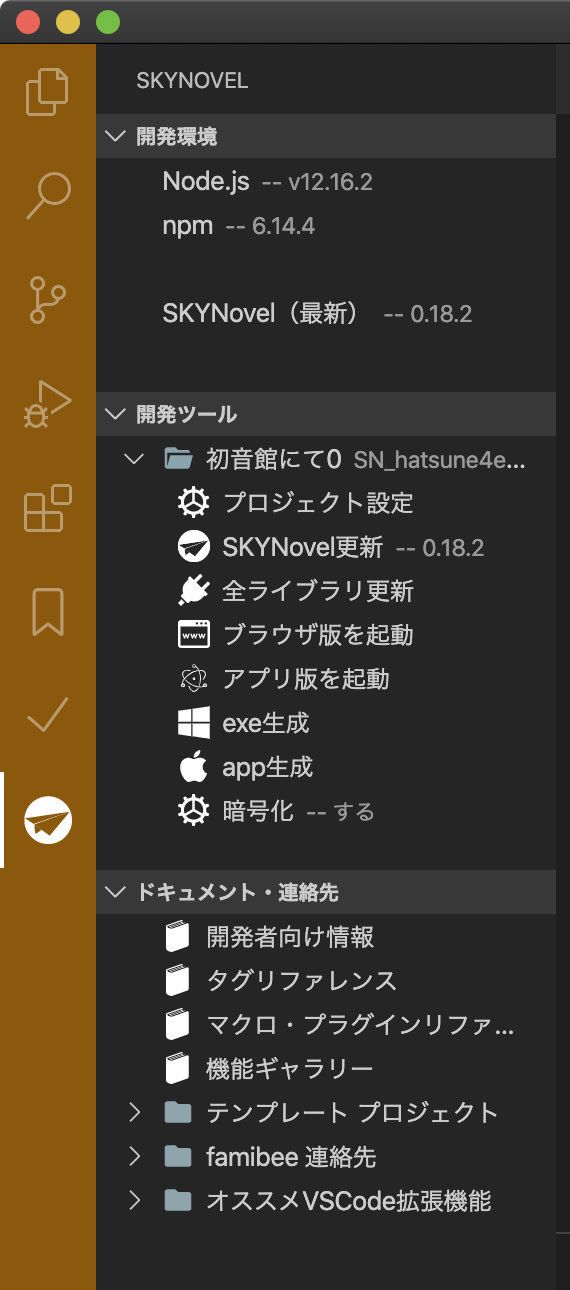
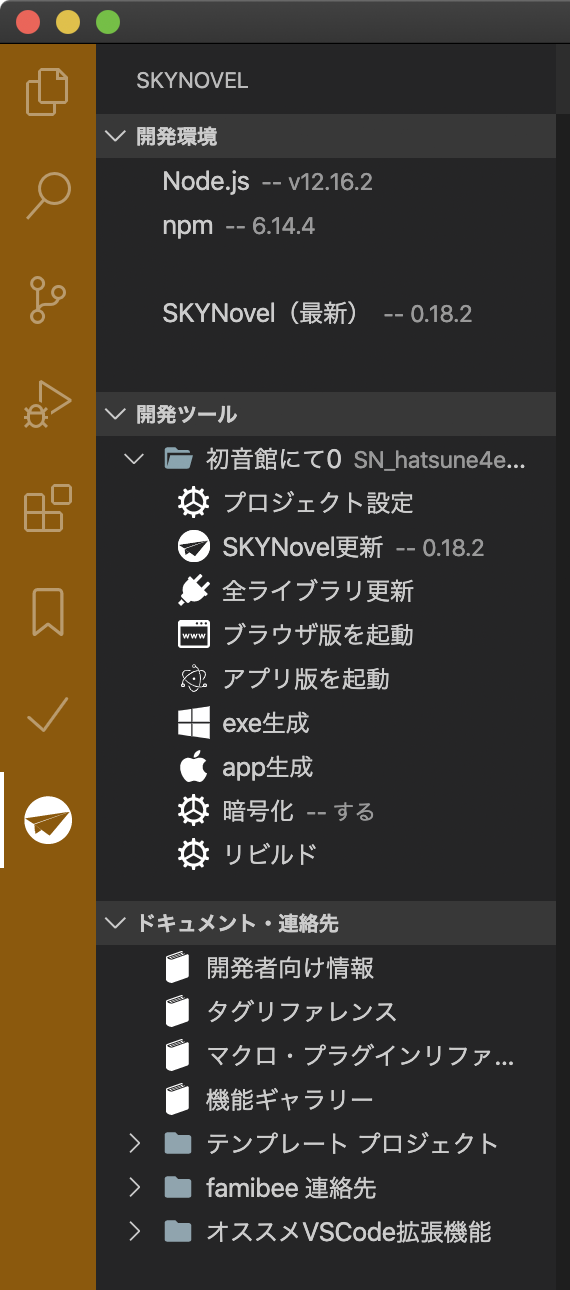
v1.11.1：add：強制的にリビルドするリビルドボタン追加

diff --git a/core/lib/WorkSpaces.js b/core/lib/WorkSpaces.js
@@ -19,6 +19,7 @@ class WorkSpaces {
             { icon: 'windows', label: 'exe生成', cmd: 'skynovel.devTaskPackWin' },
             { icon: 'macosx', label: 'app生成', cmd: 'skynovel.devTaskPackMac', desc: CmnLib_1.is_mac ? '' : 'OS X 上のみ' },
             { icon: 'gear', label: '暗号化', cmd: 'skynovel.devCrypto' },
+            { icon: 'gear', label: 'リビルド', cmd: 'skynovel.devReBuild' },
         ];
         this.idxDevPrjSet = 1;
         this.idxDevTaskPackMac = 6;
@@ -203,6 +204,9 @@ class WorkSpaces {
                     this._onDidChangeTreeData.fire(ti);
                 });
                 return;
+            case 'skynovel.devReBuild':
+                cmd += 'npm run rebuild';
+                break;
             default: return;
         }
         const t = new vscode_1.Task({ type: 'SKYNovel ' + i }, tc.label, 'SKYNovel', new vscode_1.ShellExecution(cmd));

diff --git a/core/src/WorkSpaces.ts b/core/src/WorkSpaces.ts
@@ -35,6 +35,7 @@ export class WorkSpaces implements TreeDataProvider<TreeItem> {
 		{icon: 'windows',	label: 'exe生成', cmd: 'skynovel.devTaskPackWin'},
 		{icon: 'macosx',	label: 'app生成', cmd: 'skynovel.devTaskPackMac', desc: is_mac ?'' :'OS X 上のみ'},
 		{icon: 'gear',		label: '暗号化', cmd: 'skynovel.devCrypto'},
+		{icon: 'gear',		label: 'リビルド', cmd: 'skynovel.devReBuild'},
 	];
 	private	readonly idxDevPrjSet		= 1;
 	private	readonly idxDevTaskPackMac	= 6;
@@ -236,6 +237,7 @@ export class WorkSpaces implements TreeDataProvider<TreeItem> {
 					this._onDidChangeTreeData.fire(ti);
 				});
 				return;
+			case 'skynovel.devReBuild':	cmd += 'npm run rebuild';	break;
 			default:	return;
 		}
 		const t = new Task(

diff --git a/CHANGELOG.md b/CHANGELOG.md
@@ -1,3 +1,5 @@
+## v1.11.1
+- add：強制的にリビルドするリビルドボタン追加
 ## v1.11.0
 - add：診断機能【問題タブ】未定義マクロを使用時に警告
 - add：診断機能【問題タブ】未使用のマクロ定義を報告
